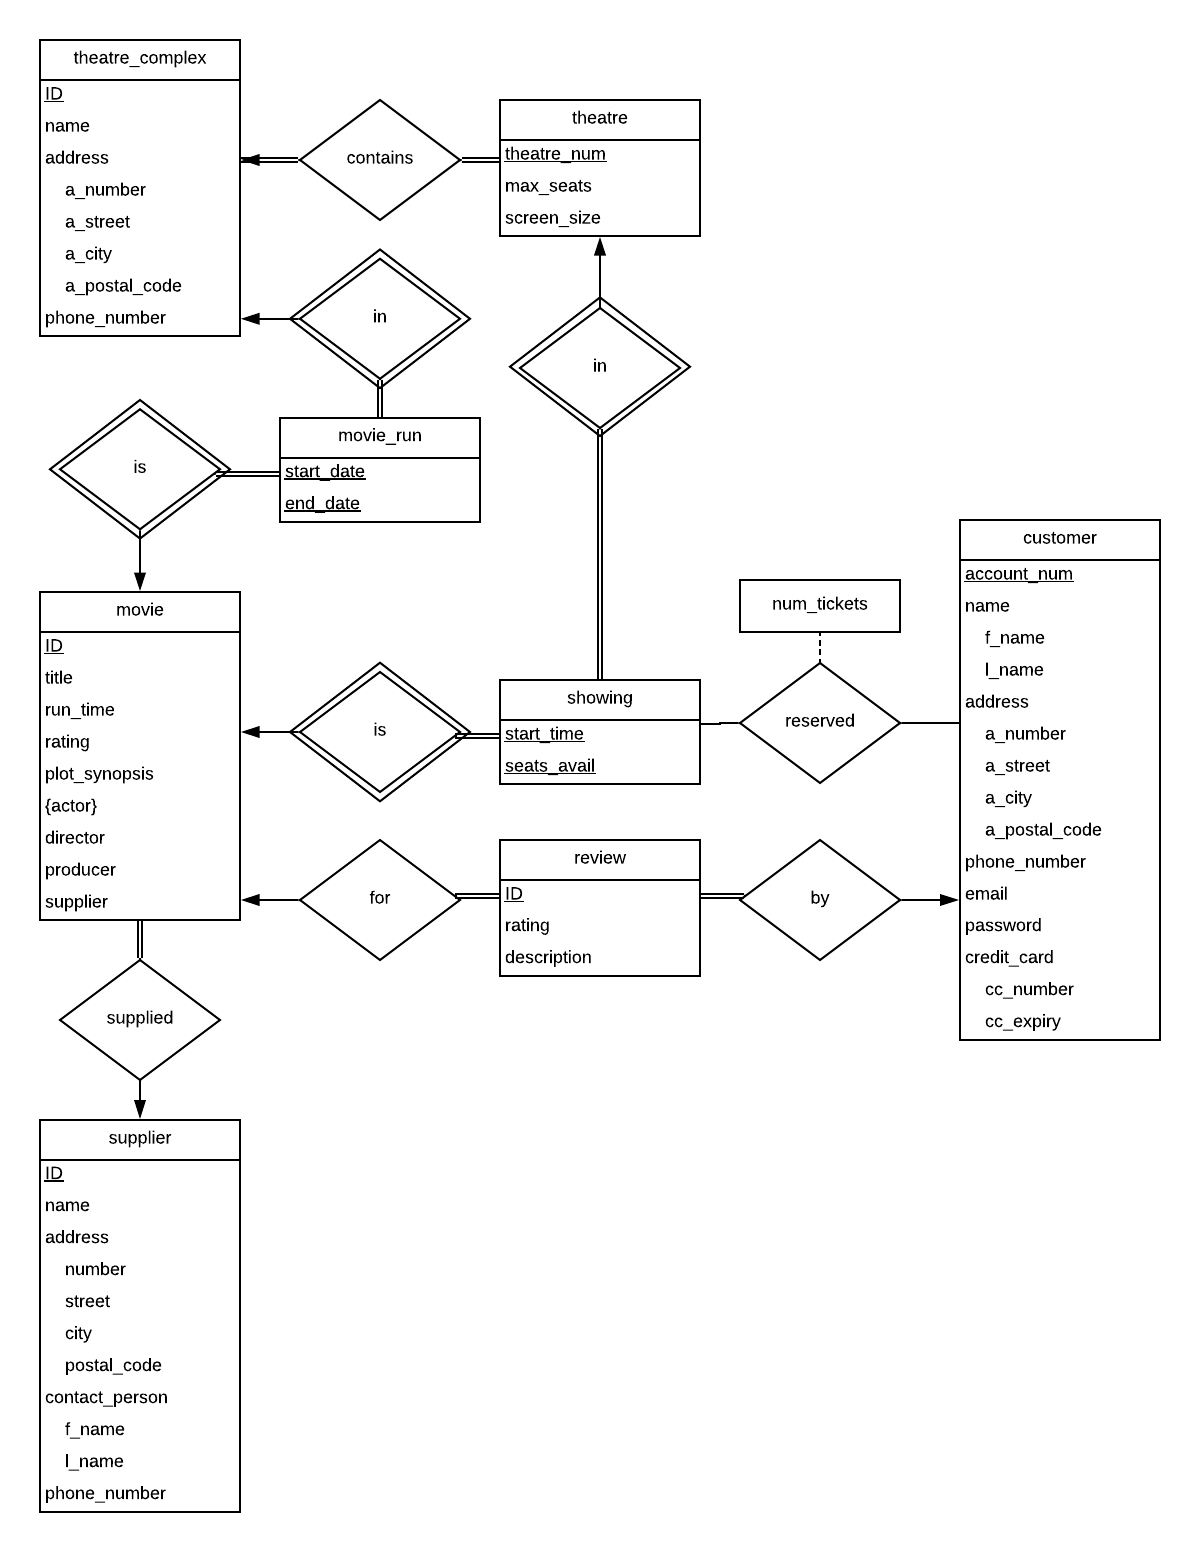
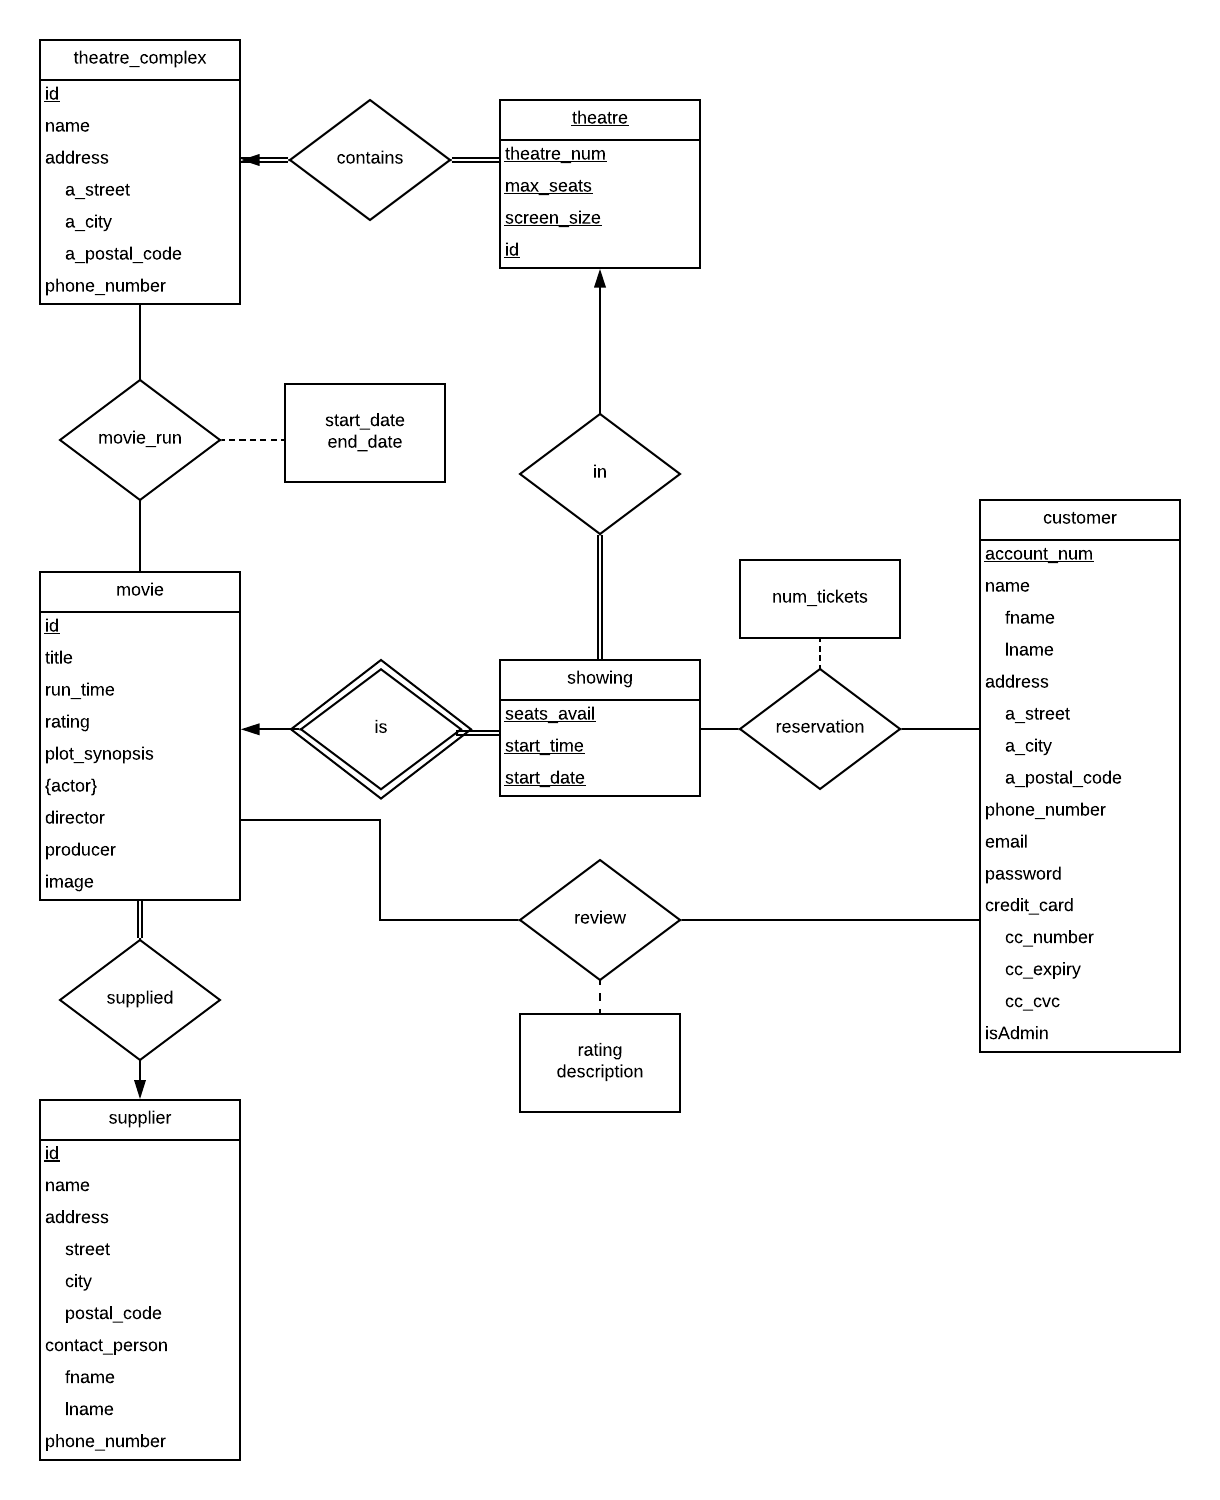
adding more docs for review and updating the sql

diff --git a/README.md b/README.md
@@ -1,6 +1,6 @@
 # databases-class-project
 
-This is where our CMPE 332 (Database Management Systems) course project lives! This project is intended to give students an opportunity to participate in all phases of the development of a database application. The development of the application will require you to use ER modeling techniques, relational modeling techniques, SQL, and to access your database via a web application.
+This is where our CMPE 332 (Database Management Systems) course project lives! This project is intended to give students an opportunity to participate in all phases of the development of a database application. The development of the application will requires us to use ER modeling techniques, relational modeling techniques, SQL, and to access your database via a web application.
 
 ## Contents
 
@@ -20,6 +20,18 @@ This is where our CMPE 332 (Database Management Systems) course project lives! T
 - [License](#license)
 
 ## Usage
+
+To use the project on your own machine:
+
+1. Clone the project:
+
+	`git clone [url]`
+
+2. Run an Apache server (serves files) and a MySQL instance (our database).
+
+3. Create and setup the database by running `db/init.sql` or by navigating to `/db/install.php` from within your browser (assuming Apache server is running).
+
+4. Enjoy the movie!
 
 ## Project Requirements
 
@@ -74,43 +86,60 @@ These requirements are a minimum.  You may find that you need to add additional 
 
 Below you can see the entity relationship diagram we designed to fulfill the above requirements:
 
-Relationship sets
-relationship participation constraints
-descriptive attributes
-multivalued attributes
-derived attribute
-simple and composite attributes
-cardinality constraints
-- one to one
-- one to many
-- many to one
-- many to many
+![OTMS ER Diagram](https://github.com/RobertWSaunders/databases-class-project/blob/master/src/assets/img/ERDiagram.png)
 
-directed line is one
-undirected line signifies many
-participation constraints
+A couple of notes to help read that ER diagram:
 
-weak entity sets, have discriminating attributes
-specialization vs generalization
-disjoint specialization (can only belong to one lower entity set)
-overlapping specialization (can belong to more than one lower entity set)
-
-completeness constraint (whether or not a higher level entity needs to belong to one of the lower level entity sets)
-total and partial completeness
+- Directed line signifies one.
+- Undirected line signifies many.
+- Attributes with curly brackets are multivalued.
+- Attributes spawning from relationships are descriptive attributes.
+- Indented attributes are composite attributes.
+- Top level attributes are simple attributes.
+- Double line indicates total participation.
+- Single line indicate partial participation.
+- Identifying relationship is depicted using a double diamond.
+- Underlined attributes in strong entity sets are the primary keys.
+- Underlined attributes in weak entity sets are the discriminators (partial keys).
+- Disjoint specialization is depicted via two lower level entities linked at the triangle.
+- Overlapping specialization is depicted via unlinked entities linked at the triangle.
+- The written "total" by specialization indicates total completeness (an entity must belong to lower level).
 
 ## Course Notes
 
+The following is course notes from the various sections of the course we studied.
+
+> NOTE: Please use at your own risk, they encapsulate everything that I personally needed to write down.
+
 ### Data Definition Language
 
-both flavours of sql
-transitioning er diagrams to a schema
-strong entity sets just reduce to a schema with the same shit
-weak entity sets reduce to a table with a primary key for the strong identifying entity set
-many to many relationships is represented with attributes for the primary keys of the two participating entity sets in additon to the descriptive attributes
-one to many relationships that are total just add the primary key of the one side
-one to one relationships either side can have the primary key, have to watch out for null values in this, partial participation
-schema for weak relationships are redundant because the weak entity set already contains the keys of the identifying set
-multi valued attributes have a foreign key to their table and an attribute for the value
+Data definition language allows the specification of information about relations, including:
+
+- The schema for each relation.
+- The domain of each attribute.
+- Integrity constraints.
+- Other information such as:
+	- The set of indices to be maintained for each relations.
+	- Security and authorization information for each relation.
+	- The physical storage structure of each relation on disk.
+
+> NOTE: Data definition language is just a subset of SQL constructs, specifically the database and table creation constructs. The other subset of constructs is the data manipulation language discussed below.
+
+#### Transitioning ER Diagrams to Schema
+
+A common first task after creating an ER diagram is to convert it into DDL to actually create the database. To do that we have to follow some rules specifically pertaining to the cardinality constraints defined in the ER diagram. Follow the rules below:
+
+- Strong entity sets reduce to a schema with all the same attributes.
+- Weak entity sets have all of their attributes but also include the primary key of the strong identifying set.
+
+- One to one relationships, the primary key of either entity in the relationship is included in one of the entities.
+- One to many relationships, the primary key of the one side is added to the many side.
+- Many to many relationships, the primary keys of both sides are added to a new table in addition to any descriptive attributes.
+
+- Simple, composite and derived attributes are just added into entities as themselves.
+- Multivalued attributes a new table is created for the attribute with a foreign key for the related entity.
+
+Following those rules you are able to create a schema for an ER diagram.
 
 ### Data Manipulation Language
 
